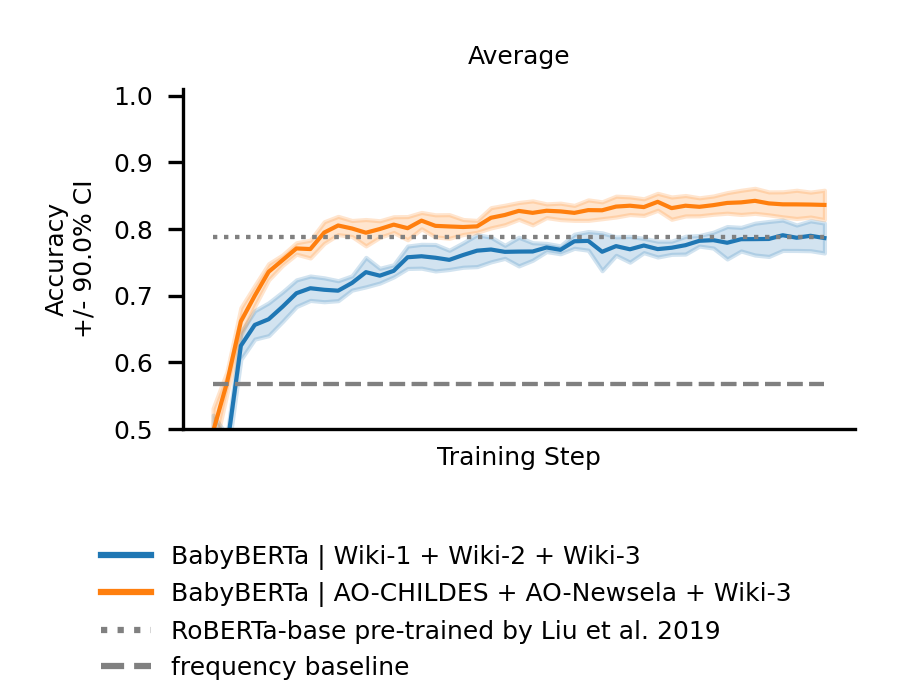
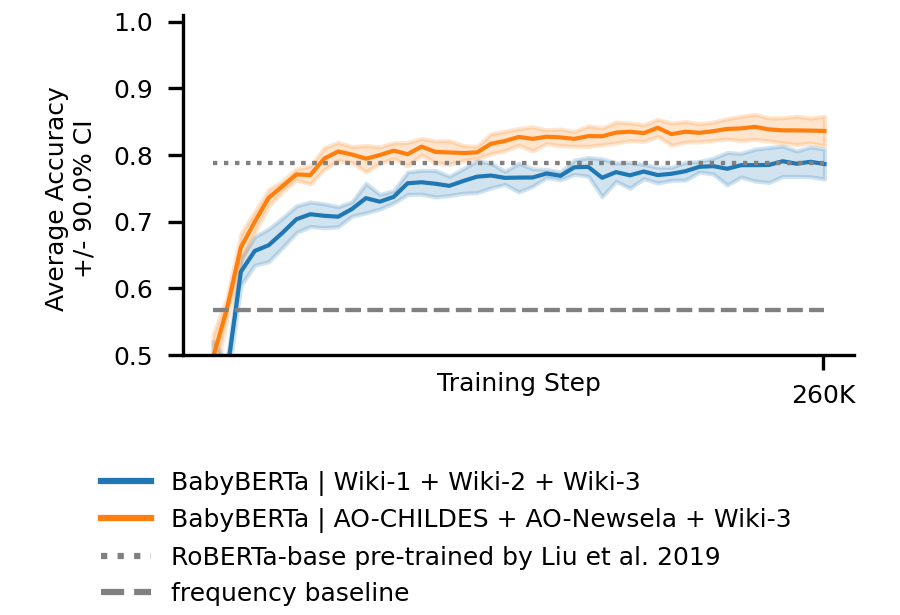
small fixes

diff --git a/zorro/visualizer.py b/zorro/visualizer.py
@@ -13,6 +13,7 @@ from zorro.scoring import count_correct_choices
 from zorro.utils import get_reps, shorten_tick_label, get_legend_label
 
 
+MULTI_AXIS_LEG_NUM_COLS = 2  # 2 or 3 depending on space
 MULTI_AXIS_LEG_OFFSET = 0.11
 SUMMARY_LEG_OFFSET = 0.42
 
@@ -69,7 +70,7 @@ class VisualizerBase:
                  y_lims: Optional[List[float]] = None,
                  fig_size: int = (6, 6),
                  dpi: int = 300,
-                 show_partial_figure: bool = True,
+                 show_partial_figure: bool = False,
                  confidence: float = 0.90,
                  ):
 
@@ -198,7 +199,8 @@ class VisualizerLines(VisualizerBase):
 
         # plot legend only once to prevent degradation in text quality due to multiple plotting
         if ax_id == 0:
-            self._plot_legend(offset_from_bottom=MULTI_AXIS_LEG_OFFSET, ncol=3)
+            self._plot_legend(offset_from_bottom=MULTI_AXIS_LEG_OFFSET,
+                              ncol=MULTI_AXIS_LEG_NUM_COLS)
             self.fig.show()
 
         if self.show_partial_figure:
@@ -210,7 +212,7 @@ class VisualizerLines(VisualizerBase):
 
         # get next axis in multi-axis figure and plot summary there
         ax_id, ax = next(self.axes)
-        self._plot_summary_on_axis(ax, label_y_axis=ax_id % self.ax_mat.shape[1] == 0)
+        self._plot_summary_on_axis(ax, label_y_axis=ax_id % self.ax_mat.shape[1] == 0, use_title=True)
         self.fig.show()
 
         # remove axis decoration from any remaining axis
@@ -219,18 +221,23 @@ class VisualizerLines(VisualizerBase):
 
         # also plot summary in standalone figure
         fig_standalone, (ax1, ax2) = plt.subplots(2, figsize=(3, 3), dpi=300)
-        self._plot_summary_on_axis(ax1, label_y_axis=True)
+        self._plot_summary_on_axis(ax1, label_y_axis=True, use_title=False)
         ax2.axis('off')
         self._plot_legend(offset_from_bottom=SUMMARY_LEG_OFFSET, fig=fig_standalone)
         fig_standalone.show()
 
     def _plot_summary_on_axis(self, ax: plt.axis,
                               label_y_axis: bool,
+                              use_title: bool,
                               ):
         """used to plot summary on multi-axis figure, or in standalone figure"""
 
         # axis
-        ax.set_title('Average', fontsize=configs.Figs.title_font_size)
+        if use_title:
+            ax.set_title('Average', fontsize=configs.Figs.title_font_size)
+            y_axis_label = self.y_axis_label
+        else:
+            y_axis_label = f'Average {self.y_axis_label}'
         ax.spines['right'].set_visible(False)
         ax.spines['top'].set_visible(False)
         ax.spines['top'].set_visible(False)
@@ -243,7 +250,7 @@ class VisualizerLines(VisualizerBase):
 
         # y axis
         if label_y_axis:
-            ax.set_ylabel(self.y_axis_label, fontsize=configs.Figs.ax_font_size)
+            ax.set_ylabel(y_axis_label, fontsize=configs.Figs.ax_font_size)
             ax.set_yticks(self.y_ticks)
             ax.set_yticklabels(self.y_ticks, fontsize=configs.Figs.tick_font_size)
         else:
@@ -391,7 +398,7 @@ class VisualizerBars(VisualizerBase):
 
         # get next axis in multi-axis figure and plot summary there
         ax_id, ax = next(self.axes)
-        self._plot_summary_on_axis(ax, label_y_axis=ax_id % self.ax_mat.shape[1] == 0)
+        self._plot_summary_on_axis(ax, label_y_axis=ax_id % self.ax_mat.shape[1] == 0, use_title=True)
         self.fig.show()
 
         # remove axis decoration from any remaining axis
@@ -409,11 +416,16 @@ class VisualizerBars(VisualizerBase):
     def _plot_summary_on_axis(self,
                               ax: plt.axis,
                               label_y_axis: bool,
+                              use_title: bool,
                               ):
         """used to plot summary on multi-axis figure, or in standalone figure"""
 
         # axis
-        ax.set_title('Average', fontsize=configs.Figs.title_font_size)
+        if use_title:
+            ax.set_title('Average', fontsize=configs.Figs.title_font_size)
+            y_axis_label = self.y_axis_label
+        else:
+            y_axis_label = f'Average {self.y_axis_label}'
         ax.spines['right'].set_visible(False)
         ax.spines['top'].set_visible(False)
         ax.set_ylim(self.y_lims)
@@ -423,7 +435,7 @@ class VisualizerBars(VisualizerBase):
         ax.set_xticklabels([])
         # y axis
         if label_y_axis:
-            ax.set_ylabel(self.y_axis_label, fontsize=configs.Figs.ax_font_size)
+            ax.set_ylabel(y_axis_label, fontsize=configs.Figs.ax_font_size)
             ax.set_yticks(self.y_ticks)
             ax.set_yticklabels(self.y_ticks, fontsize=configs.Figs.tick_font_size)
         else:

diff --git a/scripts/plot_accuracy_single_time_point.py b/scripts/plot_accuracy_single_time_point.py
@@ -10,8 +10,8 @@ from zorro.utils import prepare_data_for_plotting, get_phenomena_and_paradigms
 from zorro.io import get_group2model_output_paths
 
 
-STEP = '260000'
-LOCAL = False
+STEP = '*'
+LOCAL = True
 
 # get files locally, where we have runs at single time points only
 if LOCAL:
@@ -21,8 +21,15 @@ else:
     runs_path = configs.Dirs.runs_remote
     configs.Eval.local_runs = False
 
-group_names = sorted([p.name for p in runs_path.glob('*') if p.name in configs.Eval.param_names])
-print(f'Found {group_names}')
+group_names = sorted([p.name for p in runs_path.glob('*')])
+if configs.Eval.param_names:
+    group_names = [gn for gn in group_names if gn in configs.Eval.param_names]
+
+if not group_names:
+    raise RuntimeError(f'Did not find model output files for {configs.Eval.param_names}.'
+                       f' Check configs.Eval.param_names')
+else:
+    print(f'Found {group_names}')
 
 # get list of (phenomenon, paradigm) tuples
 phenomena_paradigms = get_phenomena_and_paradigms()

diff --git a/zorro/utils.py b/zorro/utils.py
@@ -55,6 +55,10 @@ def prepare_data_for_plotting(gn2model_output_paths: Dict[str, List[Path]],
 
     for group_name in group_names:
 
+        print('**************************')
+        print(group_name)
+        print('**************************')
+
         # read model output into instance of DataExperimental
         output_paths = gn2model_output_paths[group_name]
         if not output_paths:
@@ -180,7 +184,7 @@ def get_legend_label(group_name,
 
     for c in conditions:
         if c == 'load_from_checkpoint' and param2val[c] != 'none':
-            param2val_previous = load_param2val(param2val[c], runs_path)
+            param2val_previous = load_param2val(param2val[c], runs_path.parent / 'runs_saved')
             res += f'| previously trained on {param2val_previous["corpora"]} '
             continue
         try:

diff --git a/zorro/configs.py b/zorro/configs.py
@@ -46,17 +46,17 @@ class Eval:
 
     # exp1 (part of experiment that is comparing unmasking only)
     # steps = [i for i in range(0, 280_000, 20_000)]
-    # param_names = [f'param_{i:03}' for i in [28, 35]]
+    # param_names = []  # [f'param_{i:03}' for i in [28, 35]]
     # conditions = ['corpora', 'leave_unmasked_prob']
 
     # exp2
     steps = [i for i in range(0, 280_000, 20_000)]
-    param_names = [f'param_{i:03}' for i in [6, 7, 8]]
+    param_names = [f'param_{i:03}' for i in [1, 2, 3]]
     conditions = ['corpora', ]
 
     # exp3
     # steps = [i for i in range(0, 280_000, 20_000)]
-    # param_names = [f'param_{i:03}' for i in [36, 37]]
+    # param_names = [f'param_{i:03}' for i in [1, 2]]
     # conditions = ['corpora', 'load_from_checkpoint']
 
     # exp4a

diff --git a/zorro/io.py b/zorro/io.py
@@ -17,6 +17,8 @@ def get_group2model_output_paths(group_names: List[str],
     # find paths to files, for each group
     res = {}
     for group_name in group_names:
+        print(f'Looking for prediction files for {group_name}')
+
         pattern = f'{group_name}/**/saves/forced_choice/**/probing_{fn}_results_{step}.txt'
         model_output_paths = [p for p in runs_path.rglob(pattern)]
 
